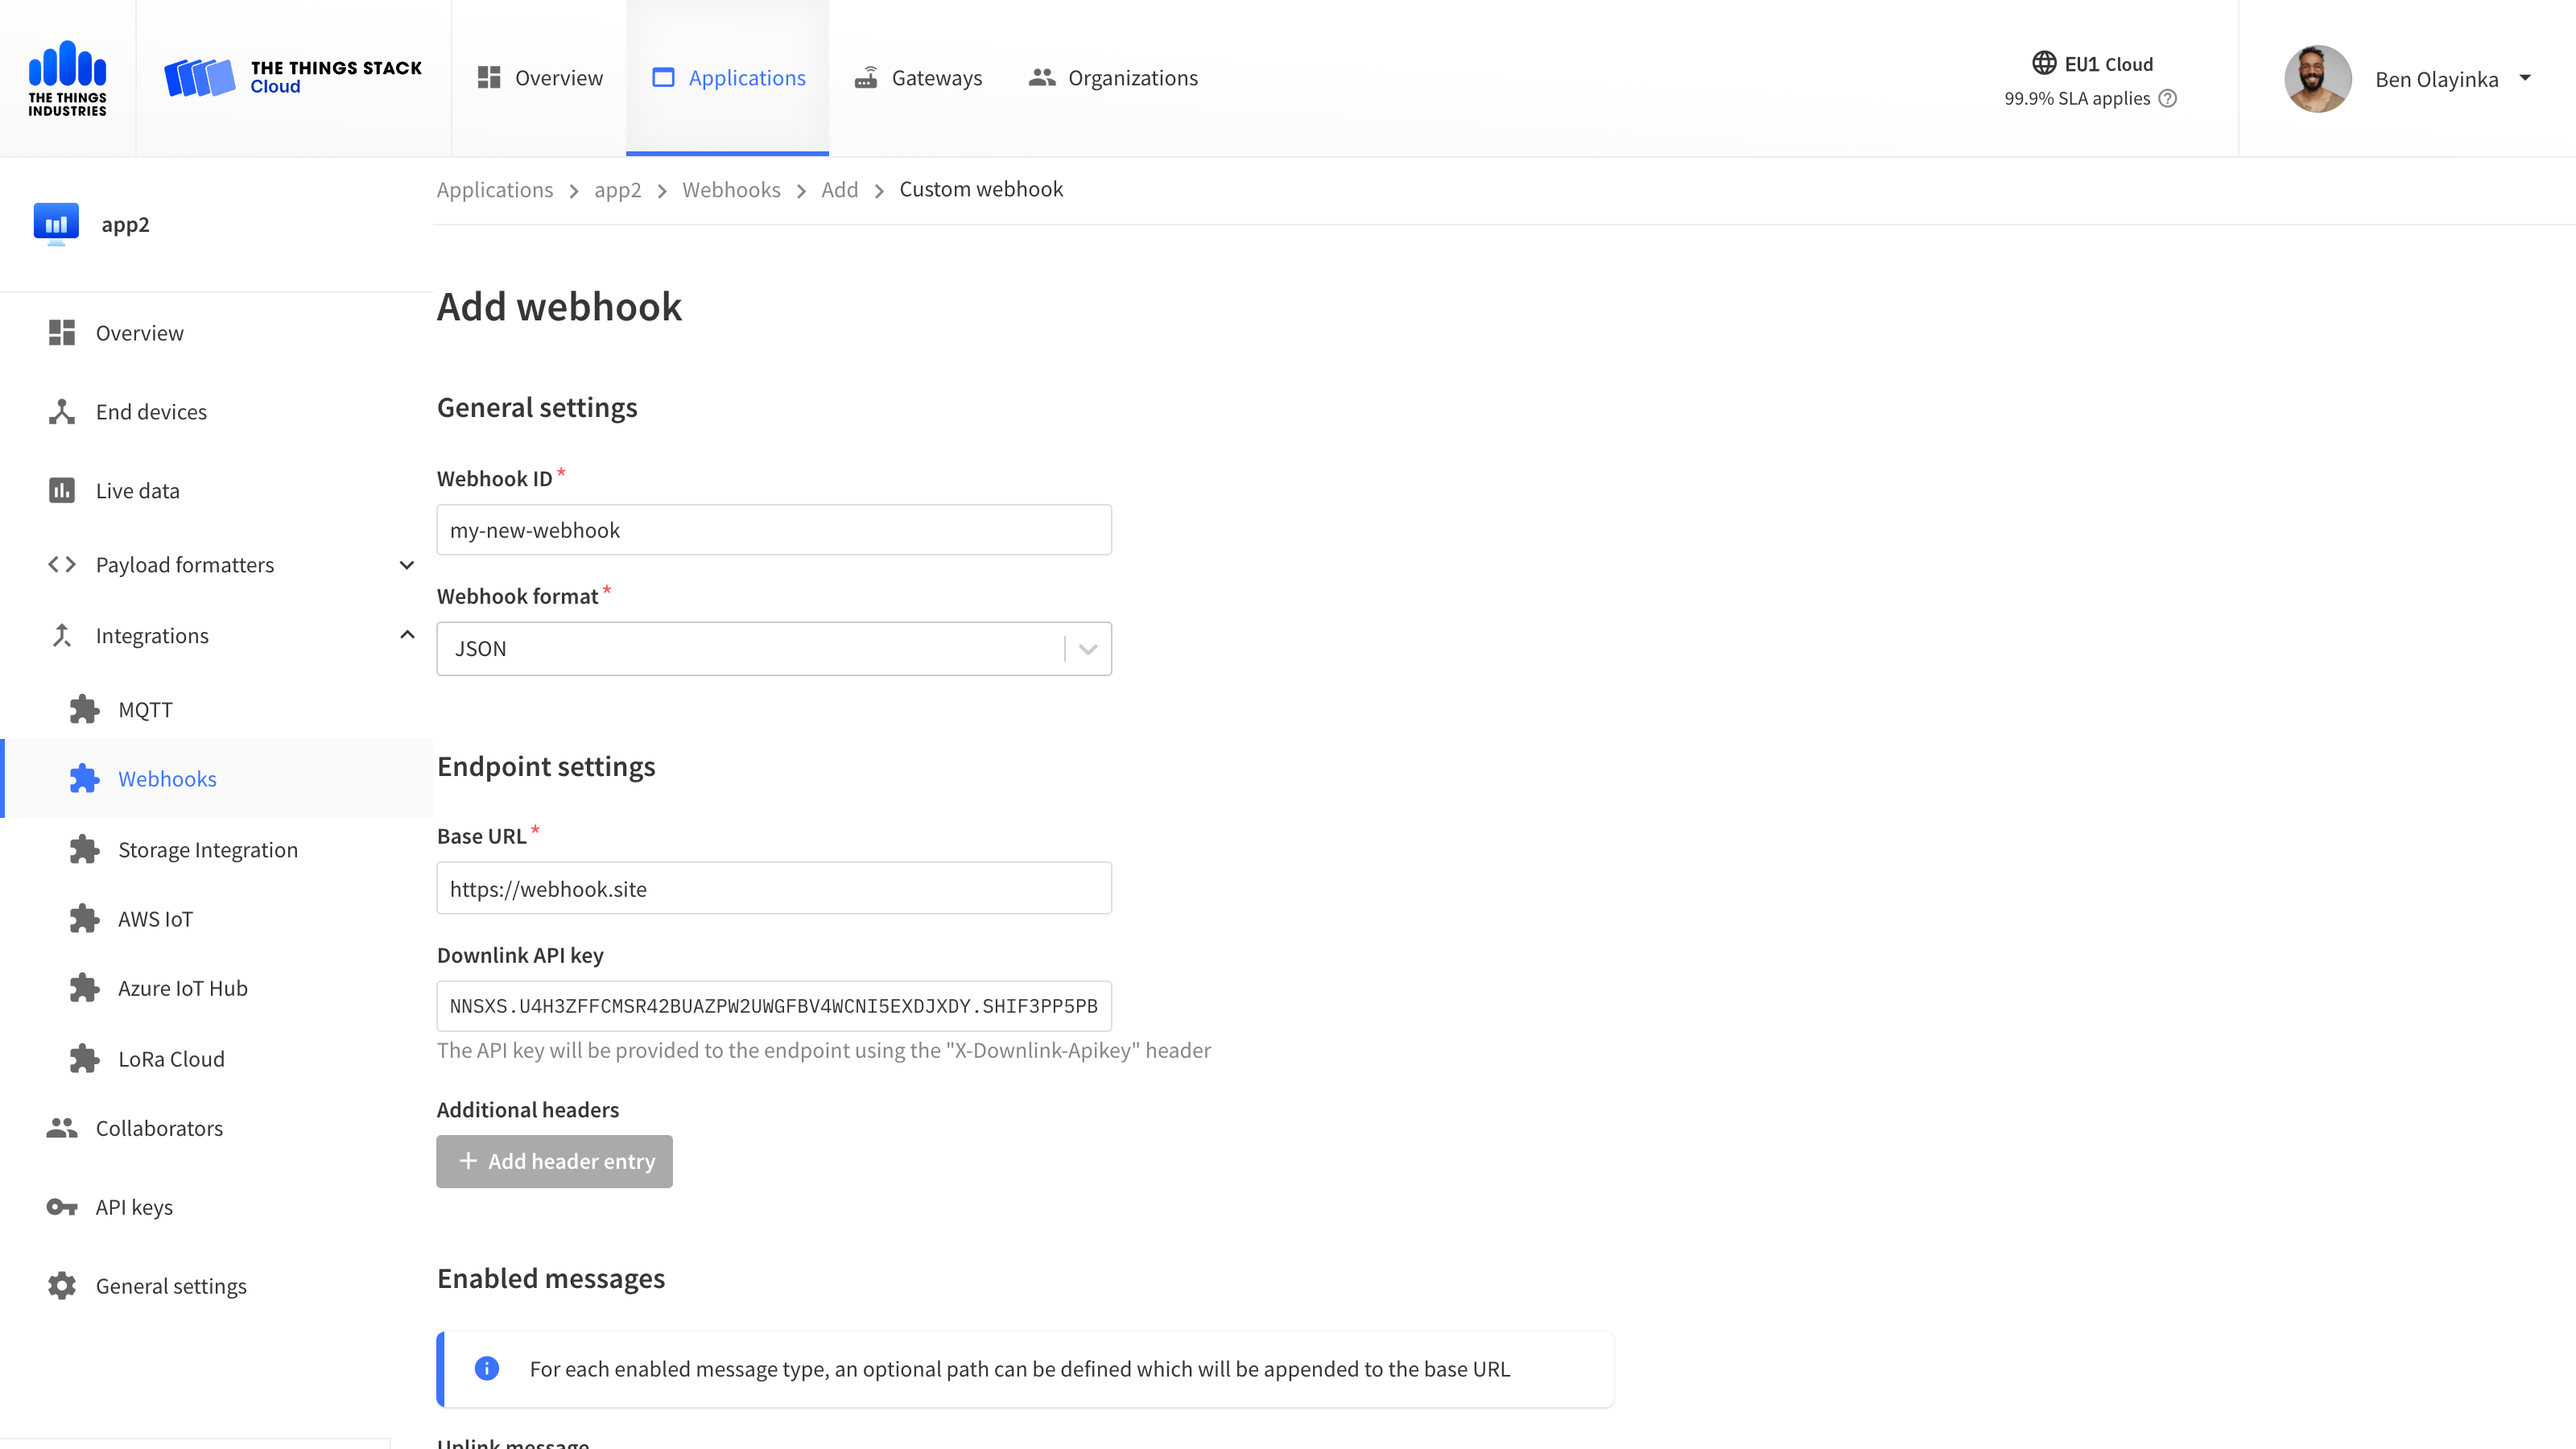
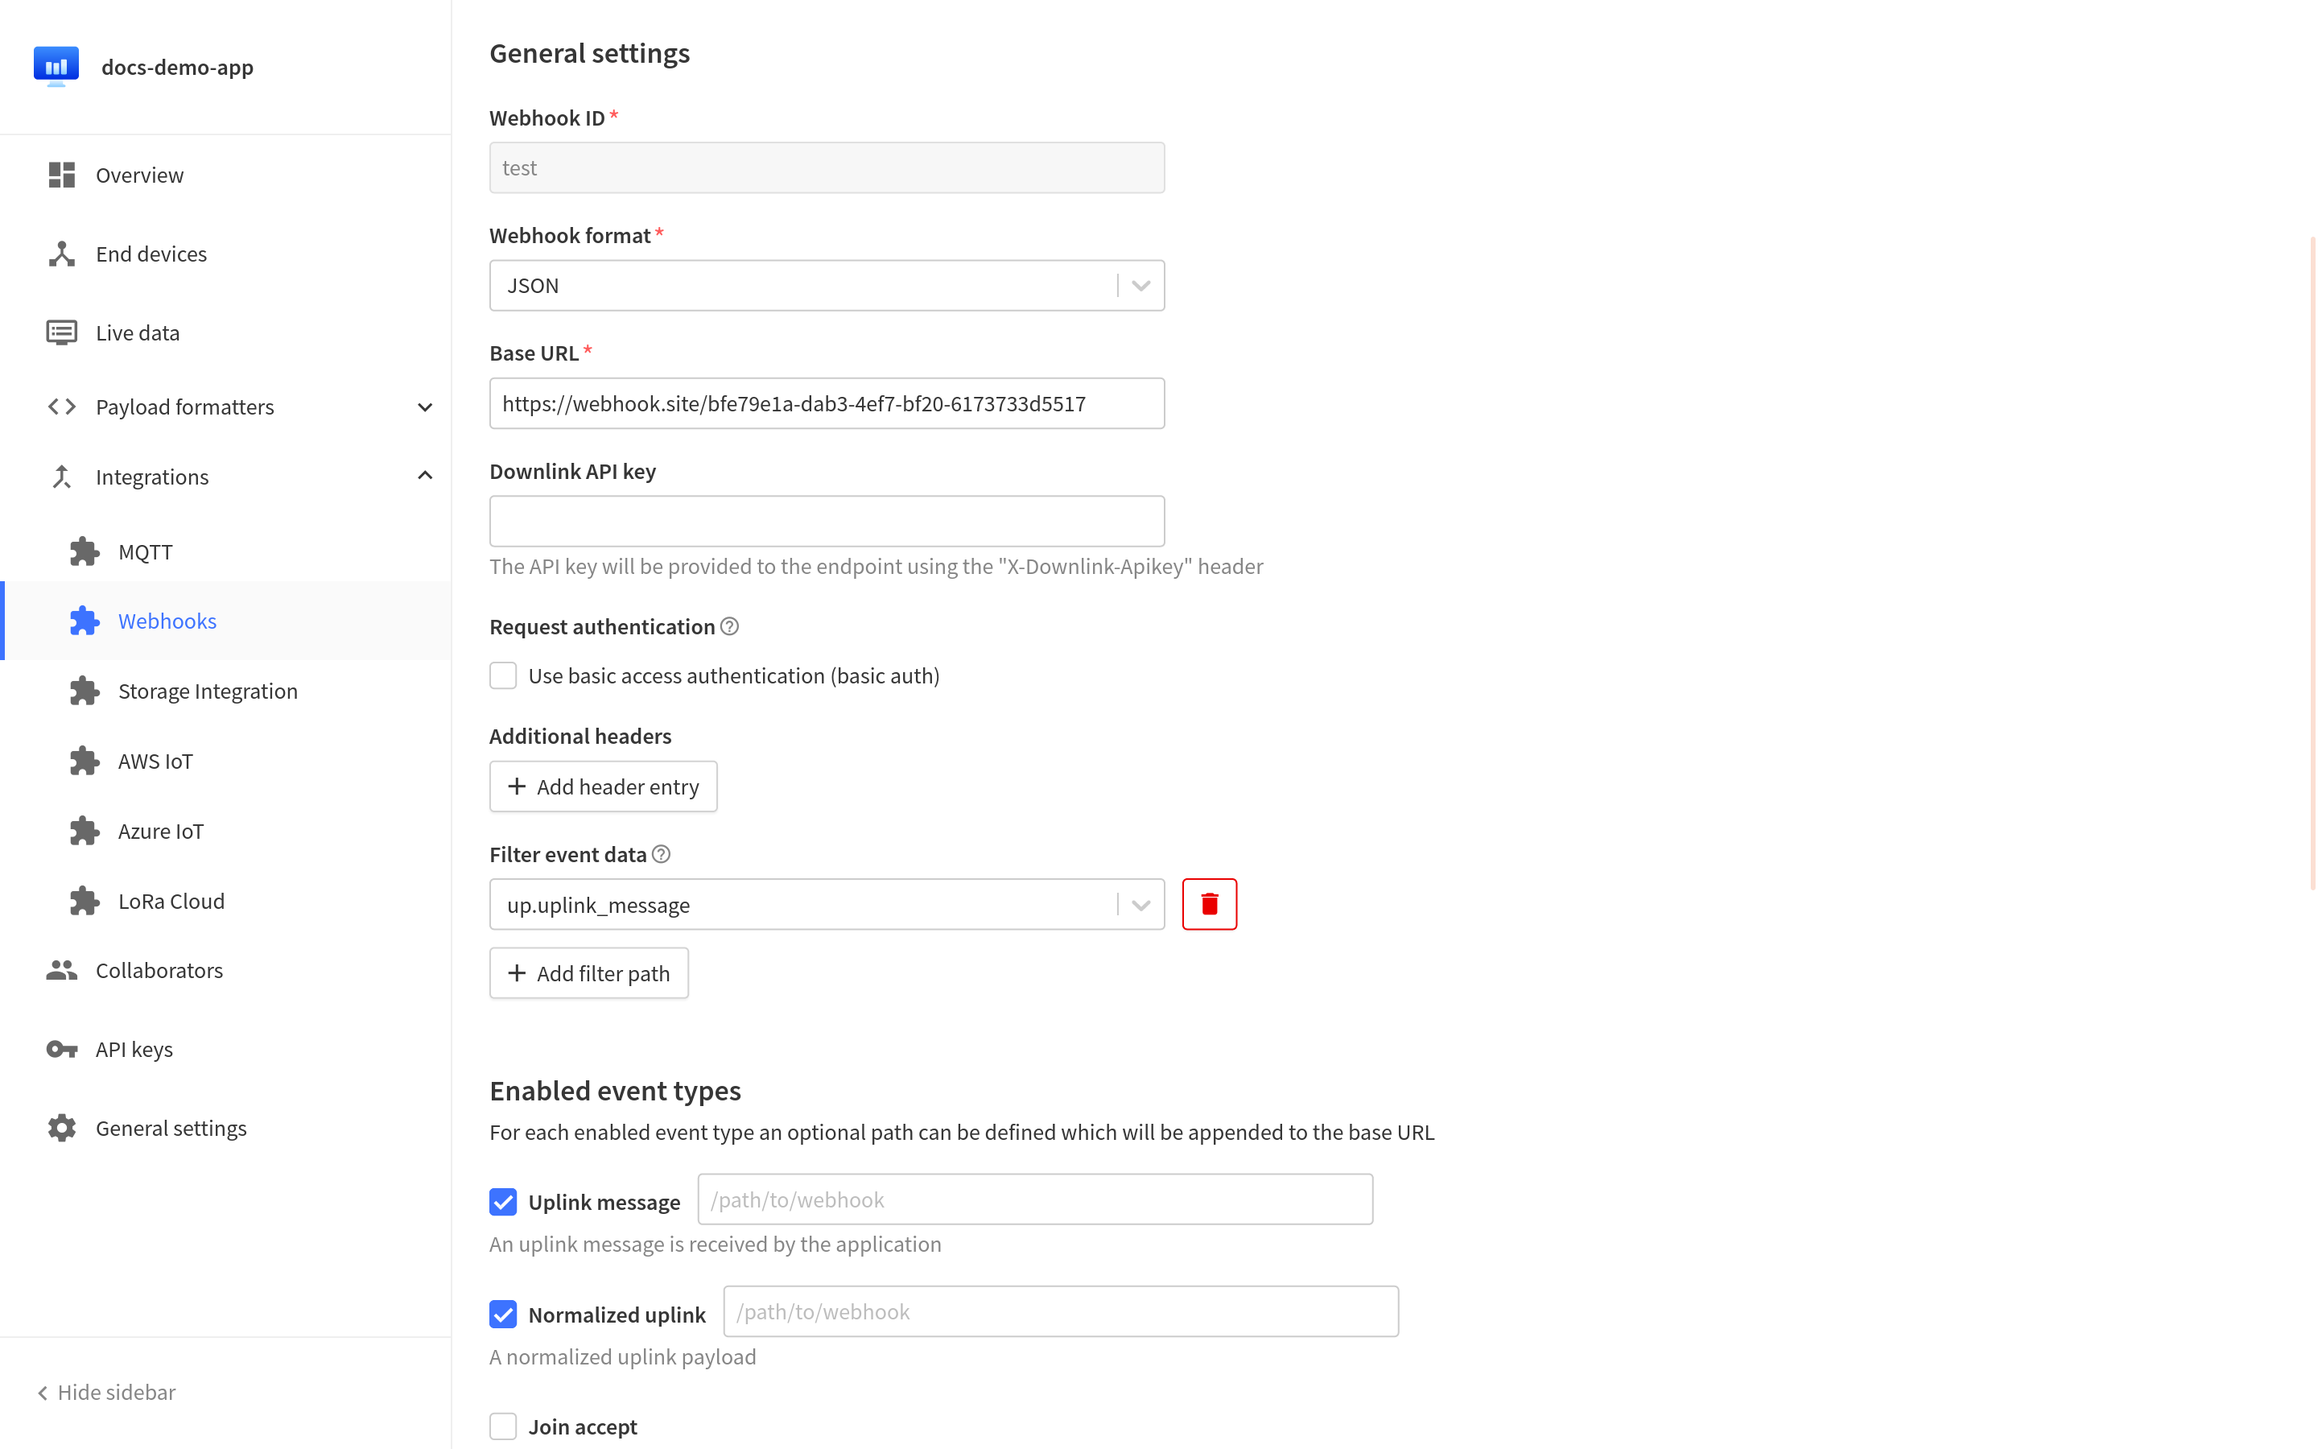
doc: Document filter path feature (#1098)
* doc: Document filter path feature

* doc: Fix image resolution

* doc: Remove old new-in-version tags

diff --git a/doc/content/integrations/webhooks/creating-webhooks.md b/doc/content/integrations/webhooks/creating-webhooks.md
@@ -34,7 +34,41 @@ The **Downlink API key** field allows you to provide an API key which will be se
 Your integration may also [schedule downlinks using an API key with appropriate rights]({{< relref "scheduling-downlinks" >}}), regardless of the value in the **Downlink API key** field.
 {{< /note >}}
 
-To enable messages for different types of events, use the checkboxes in the **Enabled messages** section.
+If you want to increase security, you can also check the **Request authentication** checkbox and provide credentials that will be used to generate basic authentication header (`Authentication: Basic <credentials>` format). This header will then be attached to all webhook requests.
+
+It is also possible to **Filter event data**, i.e. to choose which data you want to push to your webhook. This feature is convenient in case you want to avoid pushing details you don't need and want to save bandwidth. To filter data, just click on the **Add filter path** button and choose paths for data that you need. For example, if you choose only `up.uplink_message` filter, you will only push the following object:
+
+```json
+{
+  "uplink_message": {
+    "f_port": 1,
+    "frm_payload": "ICw=",
+    "rx_metadata": [
+      {
+        "gateway_ids": {
+          "gateway_id": "test"
+        },
+        "rssi": 42,
+        "channel_rssi": 42,
+        "snr": 4.2
+      }
+    ],
+    "settings": {
+      "data_rate": {
+        "lora": {
+          "bandwidth": 125000,
+          "spreading_factor": 7
+        }
+      },
+      "frequency": "868000000"
+    }
+  }
+}
+```
+
+Check out all available [filter paths]({{< ref "/integrations/webhooks/webhook-templates/format#field-mask" >}}).
+
+To enable messages for different types of events, use the checkboxes in the **Enabled event types** section.
 
 {{< figure src="../enabled-messages.png" alt="Webhook creation screen" >}}
 

diff --git a/doc/content/reference/configuration/identity-server.md b/doc/content/reference/configuration/identity-server.md
@@ -169,7 +169,7 @@ By default users can create applications, gateways, organizations and OAuth clie
 - `is.user-rights.create-gateways`: Allow non-admin users to create gateways in their user account
 - `is.user-rights.create-organizations`: Allow non-admin users to create organizations in their user account
 
-## Entity Limits Options {{< new-in-version "3.21.0">}} {#entity-limits-options}
+## Entity Limits Options {#entity-limits-options}
 
 By default, users can create an unlimited number of applications, gateways, organizations and OAuth clients. With the following configuration options, it is possible to restrict this. These configuration options apply to _newly created_ applications, organizations and users. Limits for existing applications, organizations and users can be modified by admin users.
 

diff --git a/doc/content/integrations/webhooks/webhook-templates/instantiation.md b/doc/content/integrations/webhooks/webhook-templates/instantiation.md
@@ -87,7 +87,7 @@ paths:
 
 If the user has filled in the value of `username` with `user1` and the value of `create` with `true`, then the resulting webhook will have its base URL set to `https://www.example.com/lora/user1` and the uplink messages will be sent to `https://www.example.com/lora/user1?create=true` (the uplink messages path will be set to `/uplink?create=true`).
 
-## Instantiation of Field Mask {{< new-in-version "3.21.1" >}}
+## Instantiation of Field Mask
 
 The request message data fields that are sent via webhooks can be filtered. If specified in `field-mask`, only these fields will be present in the request message to save bandwidth. Field paths are provided as a list, for example:
 

diff --git a/doc/content/integrations/payload-formatters/javascript/uplink/_index.md b/doc/content/integrations/payload-formatters/javascript/uplink/_index.md
@@ -49,7 +49,7 @@ If an error is present in `errors`, the payload is invalid. If the decoder or th
 
 ## Normalized Payload
 
-{{< new-in-version "3.21.2" >}} The uplink decoder can return any data structure. This provides full flexibility: a decoder can return any measurement in any unit as well as any additional information.
+The uplink decoder can return any data structure. This provides full flexibility: a decoder can return any measurement in any unit as well as any additional information.
 
 However, developers building applications that combine data from various device types may find it difficult to work with different data structures.
 

diff --git a/doc/content/integrations/webhooks/webhook-templates/format.md b/doc/content/integrations/webhooks/webhook-templates/format.md
@@ -62,7 +62,7 @@ The URL (`base-url`) and all paths can contain template fields.
 Not all of the messages types must be handled by the service. By omitting the field in the `paths` object, the message type will be disabled in the instantiated webhook configuration.
 {{</ note >}}
 
-## Field Mask {{< new-in-version "3.21.1" >}} {#field-mask}
+## Field Mask {#field-mask}
 
 Field mask can be configured by providing field paths as a list named `field-mask` in the body of the webhook template and contain the following paths:
 
